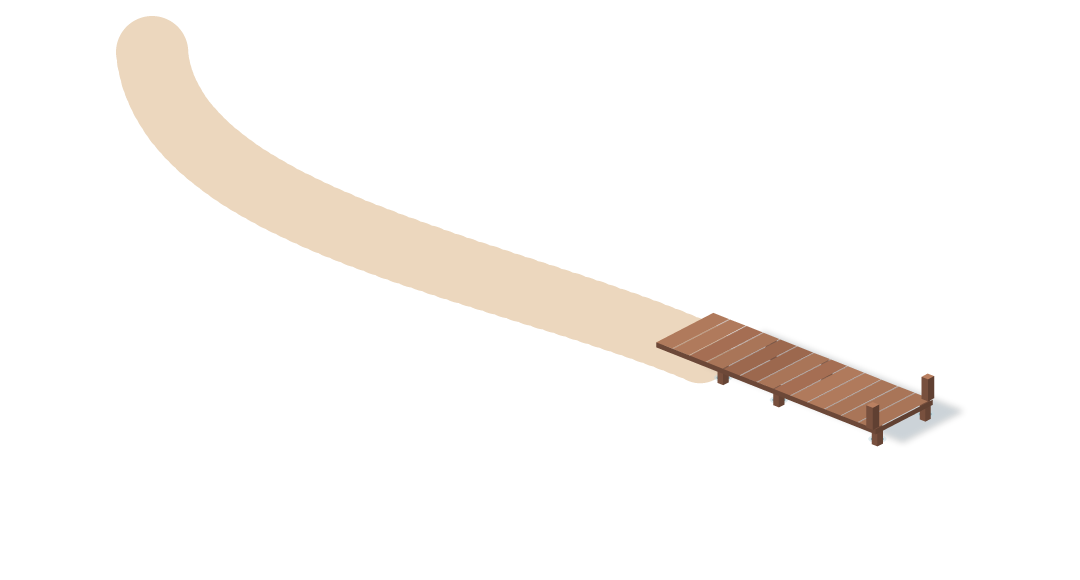
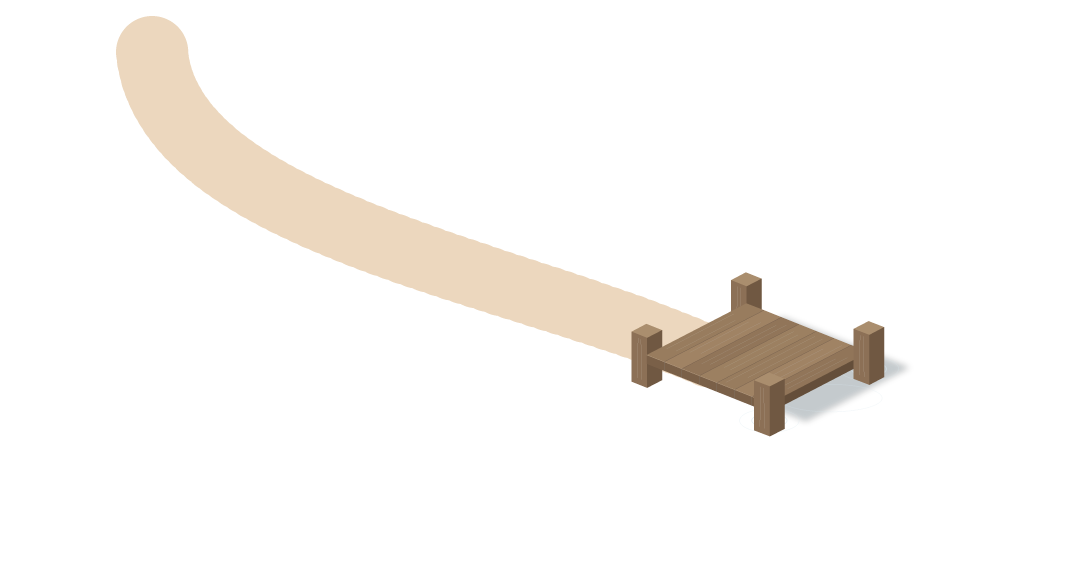
Pier: a small square deck on four stout posts, with reeds and bushes round it

Changed region(s): [[0.5806, 0.4655, 0.8861, 0.7759]]

diff --git a/src/content/vegetationConfig.ts b/src/content/vegetationConfig.ts
@@ -44,6 +44,10 @@ export const VEGETATION: VegetationItem[] = [
   { kind: 'reedsBroad', x: 1939, y: 1151, scale: 0.81, flip: true },
   { kind: 'reedsCurved', x: 1897, y: 1157, scale: 0.82, flip: true },
   { kind: 'reedsCurved', x: 1924, y: 1142, scale: 0.82 },
+  // ...and on the other side of the boat workshop's pier.
+  { kind: 'reedsBroad', x: 2046, y: 1124, scale: 0.9 },
+  { kind: 'reedsCurved', x: 2066, y: 1117, scale: 0.86, flip: true },
+  { kind: 'reedsSpears', x: 2030, y: 1129, scale: 0.78 },
   { kind: 'reedsBroad', x: 2370, y: 520, scale: 0.89, flip: true },
   { kind: 'reedsCattails', x: 2394, y: 544, scale: 0.81 },
   { kind: 'reedsBroad', x: 2403, y: 565, scale: 0.94, flip: true },
@@ -64,6 +68,10 @@ export const VEGETATION: VegetationItem[] = [
   { kind: 'cypress', x: 598, y: 326, scale: 0.95, flip: true },
   { kind: 'cypress', x: 949, y: 317, scale: 1.05, flip: true },
   { kind: 'bush', x: 958, y: 348, scale: 1.01, flip: true },
+  // Round the boat workshop's pier: either side of the path down to it.
+  { kind: 'bush', x: 1868, y: 1098, scale: 0.85 },
+  { kind: 'bush', x: 2032, y: 1064, scale: 0.9, flip: true },
+  { kind: 'bush', x: 2068, y: 1056, scale: 0.72 },
   { kind: 'cypress', x: 1178, y: 288, scale: 0.87 },
   { kind: 'bush', x: 1226, y: 294, scale: 0.86, flip: true },
   { kind: 'bush', x: 1295, y: 230, scale: 0.87, flip: true },

diff --git a/src/content/dockConfig.ts b/src/content/dockConfig.ts
@@ -21,7 +21,7 @@ export const dockConfig = {
   yPercent: 70.49,
   interactionRadius: LANDMARK_INTERACTION_RADIUS,
   /** The far end of the pier (pierConfig below): boats are set on the water there. */
-  launchPoint: { x: 2036, y: 1150 } as Vector2Like,
+  launchPoint: { x: 2013, y: 1138 } as Vector2Like,
 };
 
 /**
